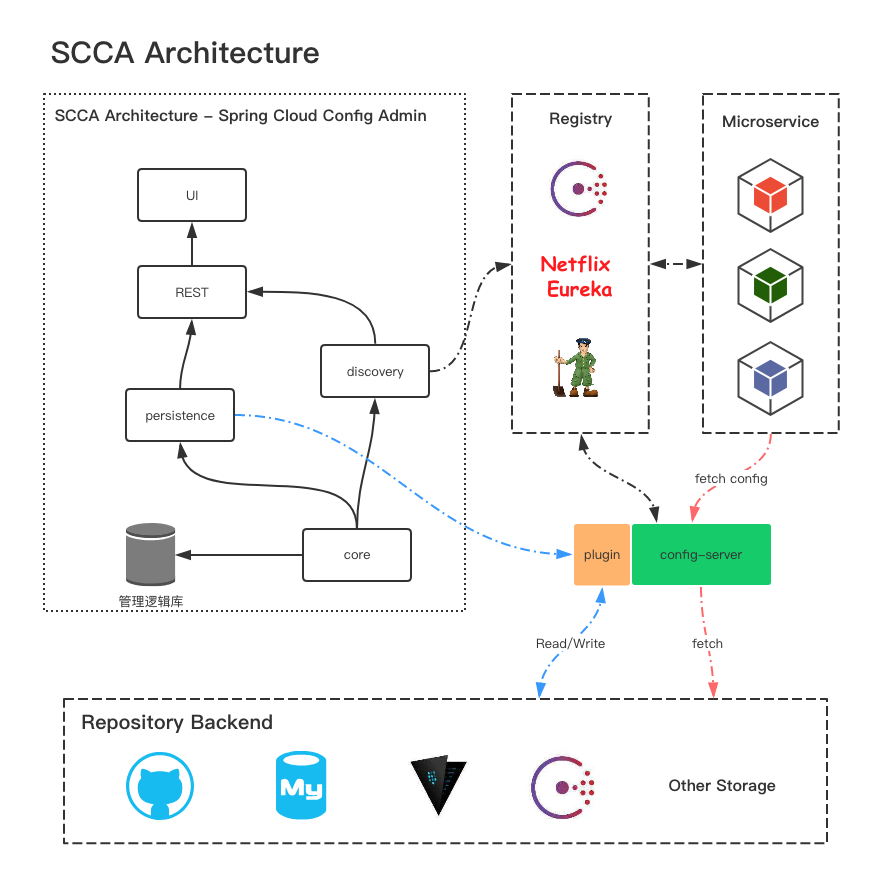
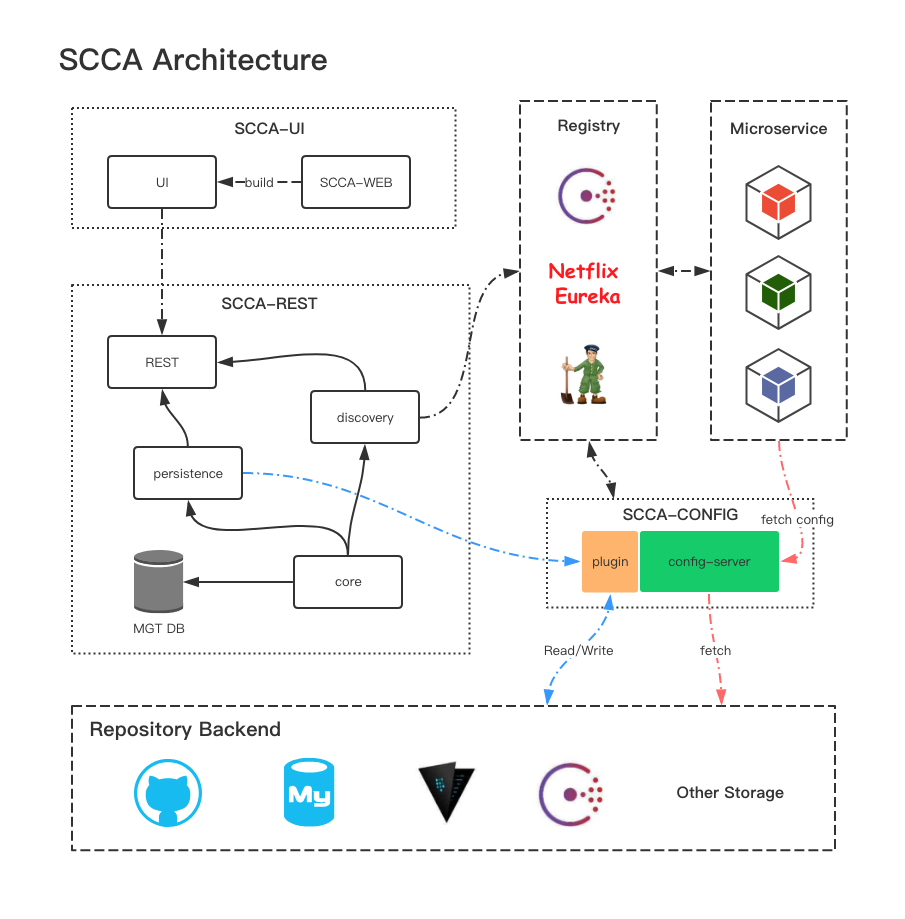
1.1.0文档编写

diff --git a/1.1.0.md b/1.1.0.md
@@ -18,7 +18,7 @@
 
 在SCCA中从部署角度主要分为以下三个部分：
 
-- `配置中心`：基于Spring Cloud Config原声的配置中心服务端，配合SCCA中针对不同存储实现的扩展（增强对不同配置存储介质的控制能力）搭建。
+- `SCCA-CONFIG模块`：基于Spring Cloud Config原声的配置中心服务端，配合SCCA中针对不同存储实现的扩展（增强对不同配置存储介质的控制能力）搭建。
 - `SCCA-REST模块`：SCCA的核心模块，实现了SCCA配置管理逻辑控制和对外操作接口。
 - `SCCA-UI模块`：SCCA的前端模块，实现了可视化的配置管理操作界面。
 
@@ -80,7 +80,7 @@
 
 本章节分别对三个核心模块的构建方式以及核心的配置内容。下面所有的构建都是基于Spring Boot构建的，所以您需要对Spring Boot项目的构建有基本的认识，这里不做介绍。
 
-## 配置中心的构建
+## SCCA-CONFIG模块的构建
 
 在SCCA的架构中，配置中心的核心完全采用Spring Cloud Config，所以如何构建一个配置中心完全遵循Spring Cloud Config的使用方法，另外要做的就是引入SCCA提供的插件依赖。由于目前SCCA的REST模块主要实现了对Git存储和DB存储的综合管理，所以对于Spring Cloud Config的使用也只能支持这两种模式。下面分别介绍两种配置中心的搭建与配置。
 
@@ -93,7 +93,7 @@
 ```xml
 <dependency>
     <groupId>com.didispace</groupId>
-    <artifactId>scca-plugin-config-server-git</artifactId>
+    <artifactId>scca-plugin-git</artifactId>
     <version>1.1.0-RELEASE</version>
 </dependency>
 ```
@@ -132,7 +132,7 @@ spring.cloud.config.server.git.password=
 ```xml
 <dependency>
     <groupId>com.didispace</groupId>
-    <artifactId>scca-plugin-config-server-db</artifactId>
+    <artifactId>scca-plugin-db</artifactId>
     <version>1.1.0-RELEASE</version>
 </dependency>
 ```
